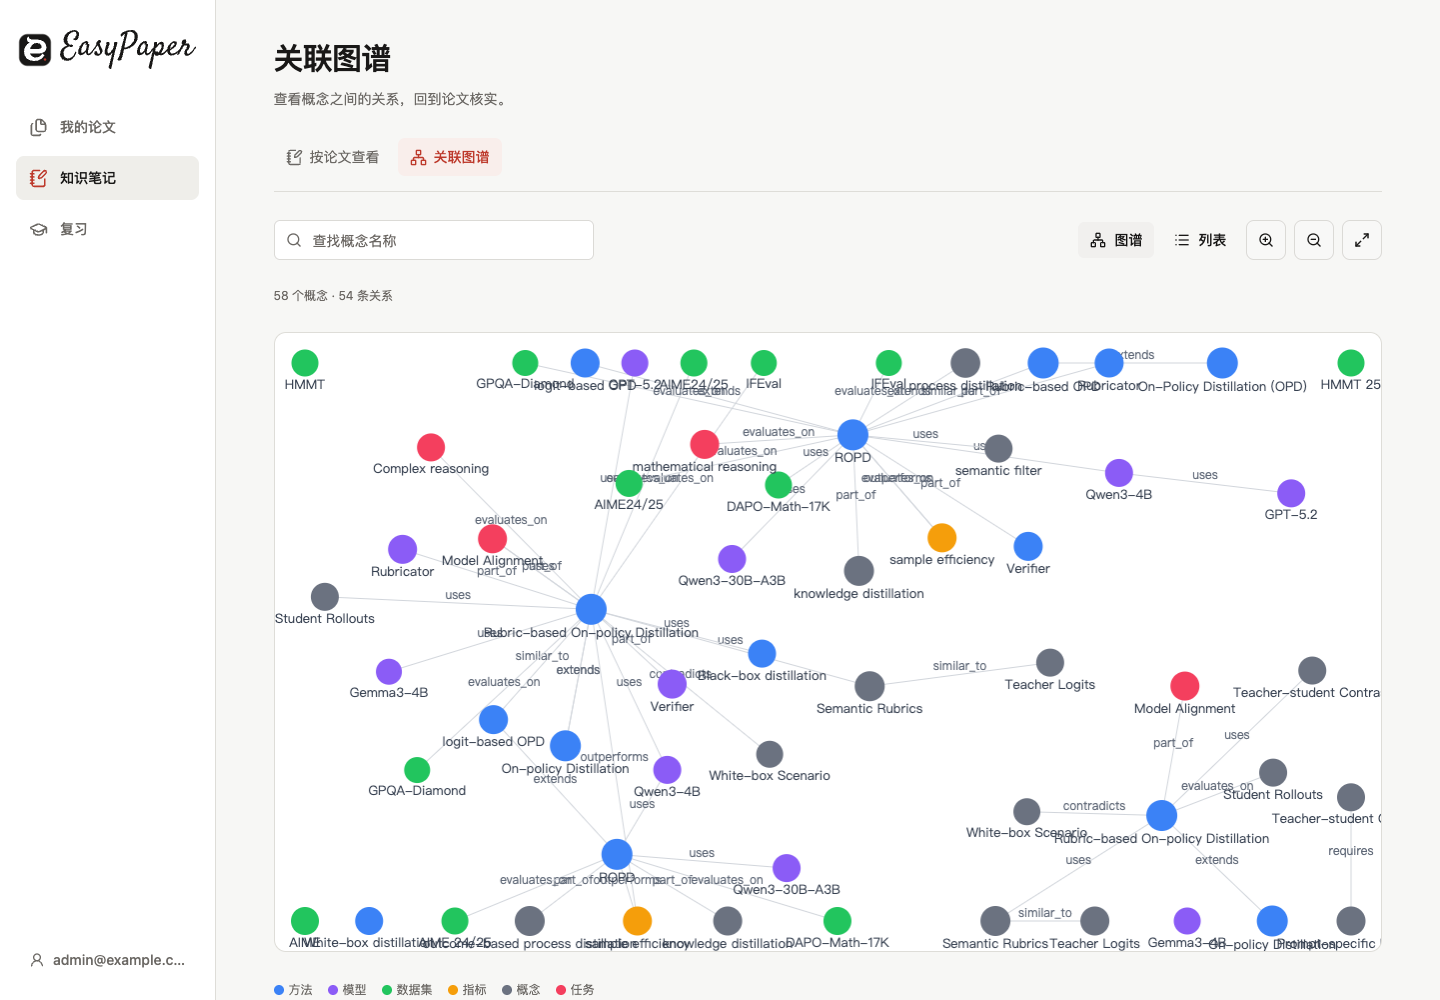
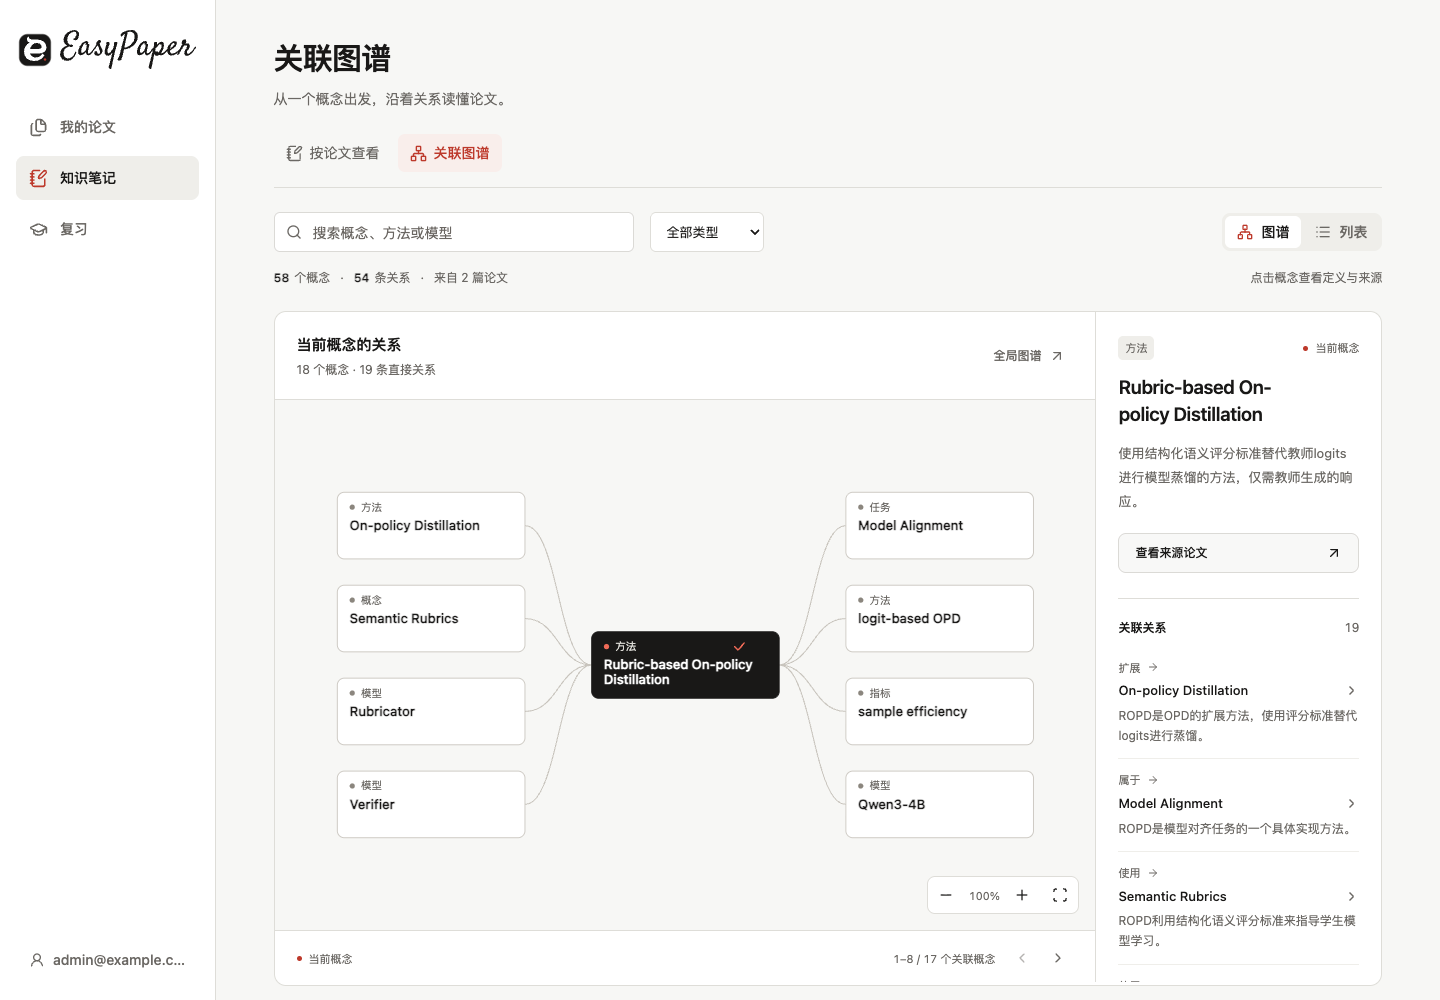
docs: update knowledge graph screenshot and feature description

diff --git a/README.md b/README.md
@@ -58,7 +58,7 @@ Extract structured knowledge from papers via LLM — stored as portable JSON, ne
 
 ### 4. Knowledge Graph
 
-Interactive force-directed graph visualization of entities and relationships across all your papers. Color-coded by entity type, sized by importance, with search and zoom.
+Explore concepts and relationships across your papers in a diagram with text labels. Focus on one concept at a time, browse its neighbors in groups of eight, and inspect definitions and source papers alongside the graph. Search, type filters, a global view, zoom, and a keyboard-accessible list keep the complete graph available.
 
 ![Knowledge graph of concepts and relationships](imgs/screenshots/knowledge-graph.png)
 
